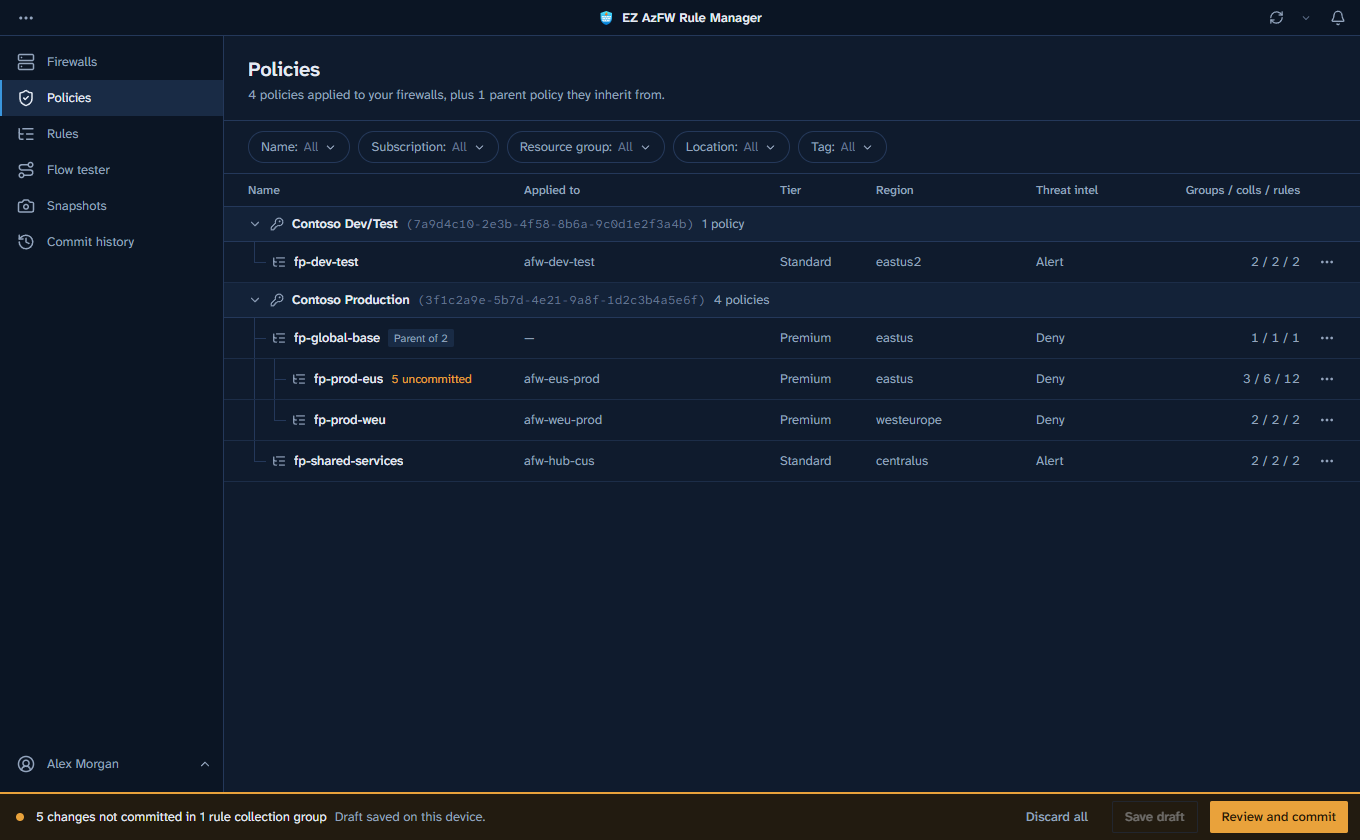
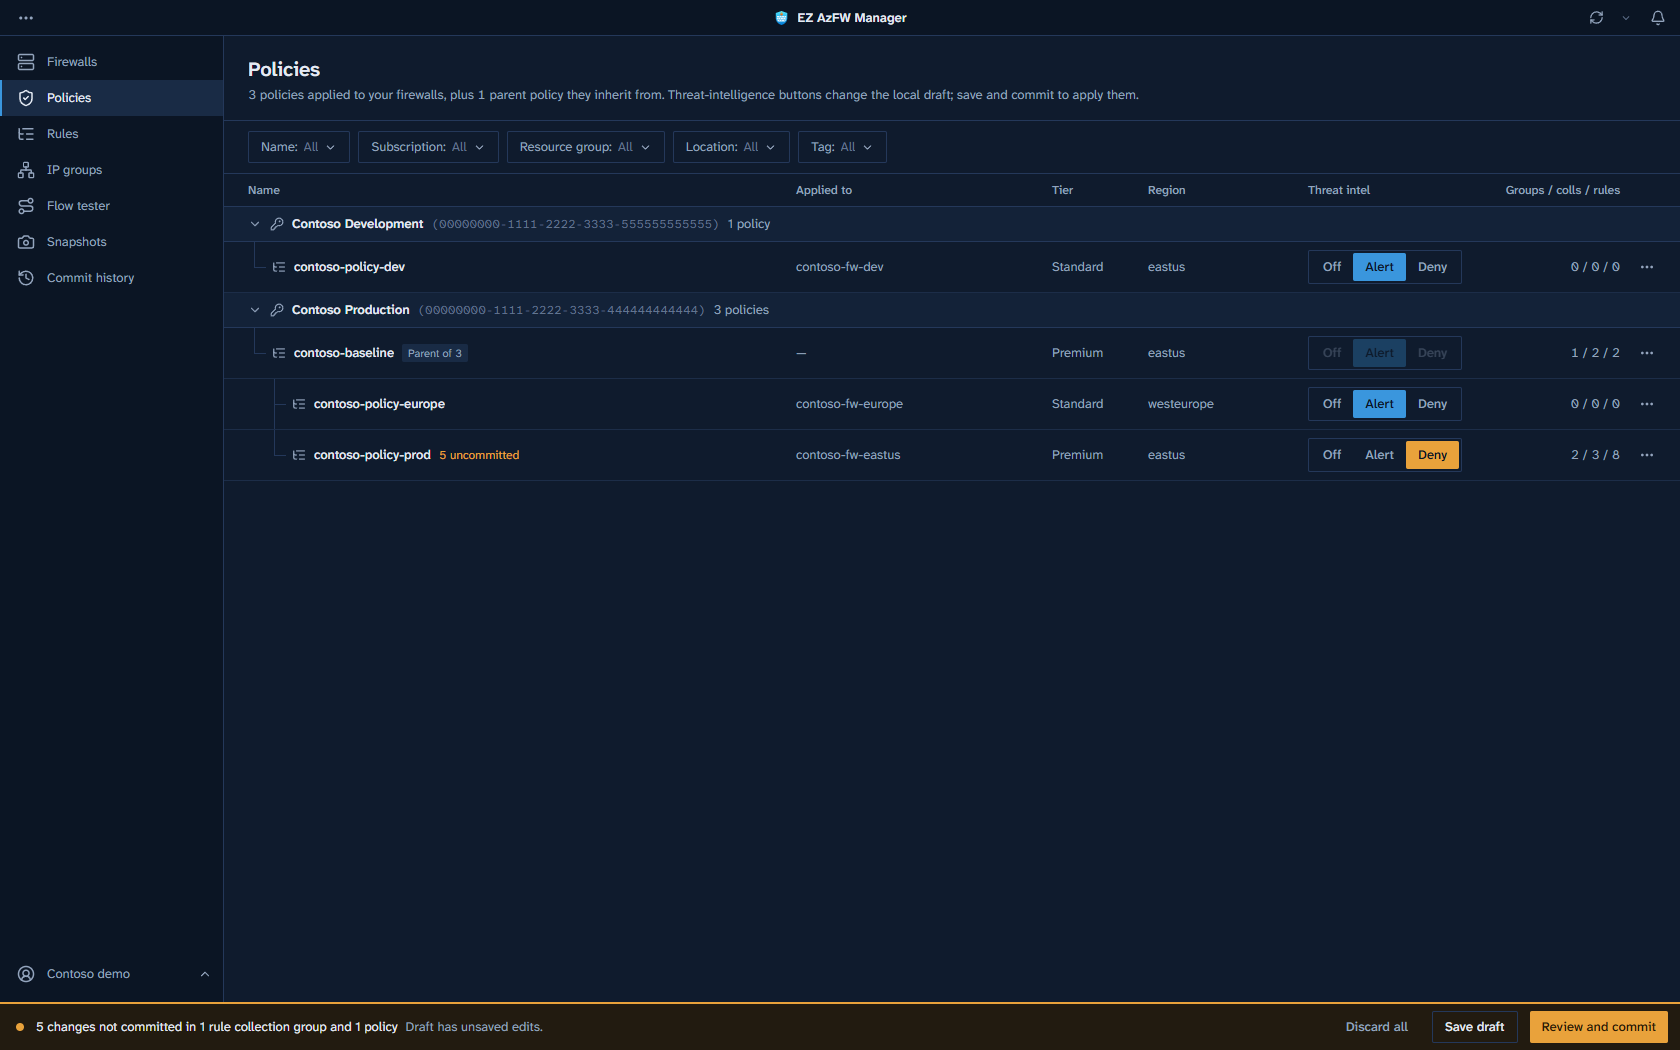
Refresh README branding and screenshots for EZ AzFW Manager
Replace all nine legacy screenshots with current demo-only UI captures and add IP groups, CSV conflict review, firewall settings and Premium policy settings images. Clarify the renamed app, staged configuration workflow and snapshot behavior.

diff --git a/README.md b/README.md
@@ -2,7 +2,9 @@
 
 A cross-platform desktop app for managing [Azure Firewalls](https://learn.microsoft.com/azure/firewall/overview), policies, rules and IP groups, with a safe **draft → review → commit** workflow for rule and configuration changes.
 
-Instead of editing rules live in the Azure portal, you stage changes locally as a _candidate_, review the risk and the exact diff, and then commit them to Azure in one step, with a shared history of every commit.
+Previously named **EZ AzFW Rule Manager**, the app is now **EZ AzFW Manager**. Existing saved data and settings are retained when upgrading.
+
+Instead of editing rules and configuration live in the Azure portal, you stage changes locally as a _candidate_, review the risk and the exact diff, and then commit them to Azure, with a shared history of every commit. IP group creation is a separate, clearly marked operation that writes directly to Azure.
 
 [![Latest release](https://img.shields.io/github/v/release/samsmith-MSFT/ez-azfw-manager?label=download&sort=semver)](https://github.com/samsmith-MSFT/ez-azfw-manager/releases/latest)
 [![CI](https://github.com/samsmith-MSFT/ez-azfw-manager/actions/workflows/ci.yml/badge.svg)](https://github.com/samsmith-MSFT/ez-azfw-manager/actions/workflows/ci.yml)
@@ -12,7 +14,7 @@ Instead of editing rules live in the Azure portal, you stage changes locally as 
 
 **Jump to:** [Features](#features) · [Screenshots](#screenshots) · [Download](#download-and-run) · [Signing in](#signing-in) · [Permissions](#required-azure-permissions) · [Data storage](#where-your-data-is-stored) · [Code signing policy](#code-signing-policy) · [Development](#development) · [Releasing](#releasing) · [Contributing](#contributing) · [Disclaimer](#disclaimer) · [License](#license)
 
-![Rule collection groups in a firewall policy, with a draft that adds, changes and removes rules](docs/images/rules.png)
+![EZ AzFW Manager rule editor with IP group names, CSV import, and added, changed and removed draft rules](docs/images/rules.png)
 
 _Editing a policy: draft changes are marked as added (+), changed (~) or removed (-), and nothing reaches Azure until you commit._
 
@@ -25,9 +27,9 @@ _Editing a policy: draft changes are marked as added (+), changed (~) or removed
 - **Firewall settings and power**: open a firewall's name or **Edit firewall settings** to view learned SNAT prefixes, associate an existing Route Server, configure prescaling, or assign/remove existing maintenance configurations. Use the row's power button group to draft a stop or start; it never changes allocation immediately. The buttons show **Stop / Running** while Azure reports running, or **Stopped / Start** while Azure reports stopped. Status wording follows live Azure state, not the draft. The selected choice is highlighted, inactive choices are shaded, and amber marks uncommitted changes.
 - **Advanced policy settings**: **Policies → Edit policy settings** provides DNS proxy/custom DNS servers, validated threat-intelligence IP/CIDR/range and FQDN allowlists, SNAT auto-learning, and Premium TLS inspection configuration using an existing Key Vault secret URI and user-assigned managed identity.
 - **IP groups**: browse groups across your subscriptions with the same name, subscription, resource group, location and tag filters as the resource pages. View all member addresses and create groups with validated names, IPv4 addresses, CIDRs and ranges. Creation writes directly to Azure, independently of rule drafts, and requires an existing resource group.
-- **Draft and commit**: rule changes are staged in a local candidate that survives restarts. No rule changes are sent to Azure until you commit.
-- **Review**: see a per-group diff and a risk assessment (e.g. overly broad sources, destinations, or ports) before committing. Concurrent changes made in Azure are detected using ETags.
-- **Policy snapshots and rollback**: a full snapshot of the policy is saved to shared Azure Blob Storage each time you commit, with collapsible Rule Collection Group → Rule Collection → Rules views and one-click rollback to any former state.
+- **Draft and commit**: rule, firewall-setting, policy-setting and start/stop changes are staged in a local candidate that survives restarts. These changes are not sent to Azure until you commit.
+- **Review**: see the exact changes and a risk assessment (e.g. overly broad sources, destinations, or ports) before committing. Edited fields are rechecked against fresh Azure data; see the firewall concurrency limitation below.
+- **Policy snapshots and rollback**: policy commits save cumulative snapshots to shared Azure Blob Storage, with collapsible Rule Collection Group → Rule Collection → Rules views and one-click rollback. Snapshots can include policy mode, DNS, allowlist, SNAT and TLS settings; firewall-resource changes are recorded in shared history instead.
 - **Commit history**: every commit is saved to the same shared Azure Blob Storage account as the snapshots, so you and your teammates can see who made what change and its outcome. Commits that couldn't be saved there still show on the device that made them.
 - **Flow tester**: check which rule would match a given source, destination, protocol, and port. Optionally pick the destination's web category (from the portal's Web Category Check) so web category rules can be decided.
 - **CSV import and export**: download a bundled import template and bulk-import Network, Application and DNAT rules into the selected policy's local draft, with validation and per-rule duplicate/conflict review. Export one group or an entire policy for spreadsheet reviews.
@@ -83,31 +85,53 @@ Policy snapshots include recorded DNS, allowlist, SNAT and TLS settings; older s
 
 ## Screenshots
 
-All screenshots use made-up demo data (a fictional company called Contoso); none of it comes from a real environment.
+These screenshots show **EZ AzFW Manager v1.5.0**, including the updated navigation, squared-off filters, state buttons and configuration editors. All screenshots use made-up demo data for a fictional company called Contoso; no Azure credentials or data from a real environment were used.
 
 ### See all your firewalls in one place
 
-Firewalls from every subscription you can access, grouped by subscription, with filters for name, resource group, location and tag. Choose which ones the app shows; hiding a firewall changes nothing in Azure.
+Firewalls from every subscription you can access, grouped by subscription, with filters for name, resource group, location and tag. The **State** column shows **Stop / Running** or **Stopped / Start** based on live Azure state. Clicking an action stages a draft; it does not immediately stop or start the firewall.
 
-![The Firewalls page, listing firewalls grouped by subscription](docs/images/firewalls.png)
+![EZ AzFW Manager Firewalls page with the State column, Stop and Start buttons, and square filters](docs/images/firewalls.png)
 
-![Choosing which firewalls to show, with classic-rule firewalls marked read-only](docs/images/choose-firewalls.png)
+Choose which firewalls the app shows; hiding one changes nothing in Azure. Classic-rule firewalls are identified separately.
+
+![Choosing which Contoso firewalls to show in EZ AzFW Manager](docs/images/choose-firewalls.png)
+
+Open a firewall's name to view learned SNAT prefixes, associate an existing Route Server, configure scaling and select an existing maintenance configuration.
+
+![Firewall settings with learned SNAT prefixes, Route Server, prescaling limits and maintenance configuration](docs/images/firewall-settings.png)
 
 ### Understand how policies fit together
 
-Policies are shown with their parents and children, so you can see which rules a firewall inherits and which have uncommitted changes.
+Policies are shown with their parents and children, so you can see which rules a firewall inherits and which have uncommitted changes. **Off / Alert / Deny** buttons stage threat-intelligence changes; inherited-only parent policies remain read-only.
 
-![The Policies page, showing a parent policy with two child policies and an uncommitted change](docs/images/policies.png)
+![Policy hierarchy with Off, Alert and Deny buttons and an amber uncommitted policy change](docs/images/policies.png)
+
+Use **Edit policy settings** for DNS proxy/custom DNS, validated threat-intelligence allowlists, SNAT auto-learning and Premium TLS inspection references.
+
+![Premium policy settings showing DNS proxy, IP and FQDN allowlists, SNAT auto-learning, and existing TLS certificate and identity references](docs/images/policy-settings.png)
+
+### Manage IP groups
+
+Browse IP groups across subscriptions with the same resource filters, inspect their member addresses and create groups with validated names and IPv4 addresses, CIDRs or ranges. The creation form explicitly notes that creating a group writes to Azure immediately.
+
+![IP groups page with name, subscription, resource group, location and tag filters, member addresses and the Create IP group action](docs/images/ip-groups.png)
 
 ### Edit rules in a local draft
 
 Edit rule collections and rules with pickers for IP Groups, service tags, FQDN tags and web categories. Inherited rules from a parent policy are shown read-only.
 
-![The rule collection editor, with a rule being edited](docs/images/rule-editor.png)
+![Rule collection editor with source and destination IP group pickers and validated protocol and port fields](docs/images/rule-editor.png)
+
+### Import rules with conflict review
+
+Download the bundled CSV template, fill in your rules, then review validation results before staging. Same-name rules and potential traffic overlaps are flagged individually; conflicting rows are skipped unless you explicitly choose otherwise.
+
+![CSV import preview with one ready-to-import rule, a same-name rule, overlapping traffic and per-row import choices](docs/images/import-rules.png)
 
 ### Review the diff and the risk before you commit
 
-Every change is listed, risky ones (such as a rule that allows any source to any destination on any port) are flagged, and you must acknowledge them before the commit goes ahead.
+Every selected rule or configuration change is listed. Risky changes, such as a broad HTTPS exception, are flagged and must be acknowledged before the commit goes ahead.
 
 ![The commit dialog, listing the changes and a risk warning that must be acknowledged](docs/images/commit-review.png)
 
@@ -119,7 +143,7 @@ The flow tester shows which rule would handle a given flow, in Azure's processin
 
 ### Roll back to any earlier state
 
-Each commit saves a snapshot of the whole policy to your Azure storage account. Browse a snapshot's groups, collections and rules, or roll back to it with one click.
+Policy commits save cumulative snapshots to your Azure storage account. Browse a snapshot's groups, collections, rules and recorded policy settings, or stage a rollback for review before committing it.
 
 ![The Snapshots page, with one snapshot expanded to show its rule collection groups](docs/images/snapshots.png)
 
